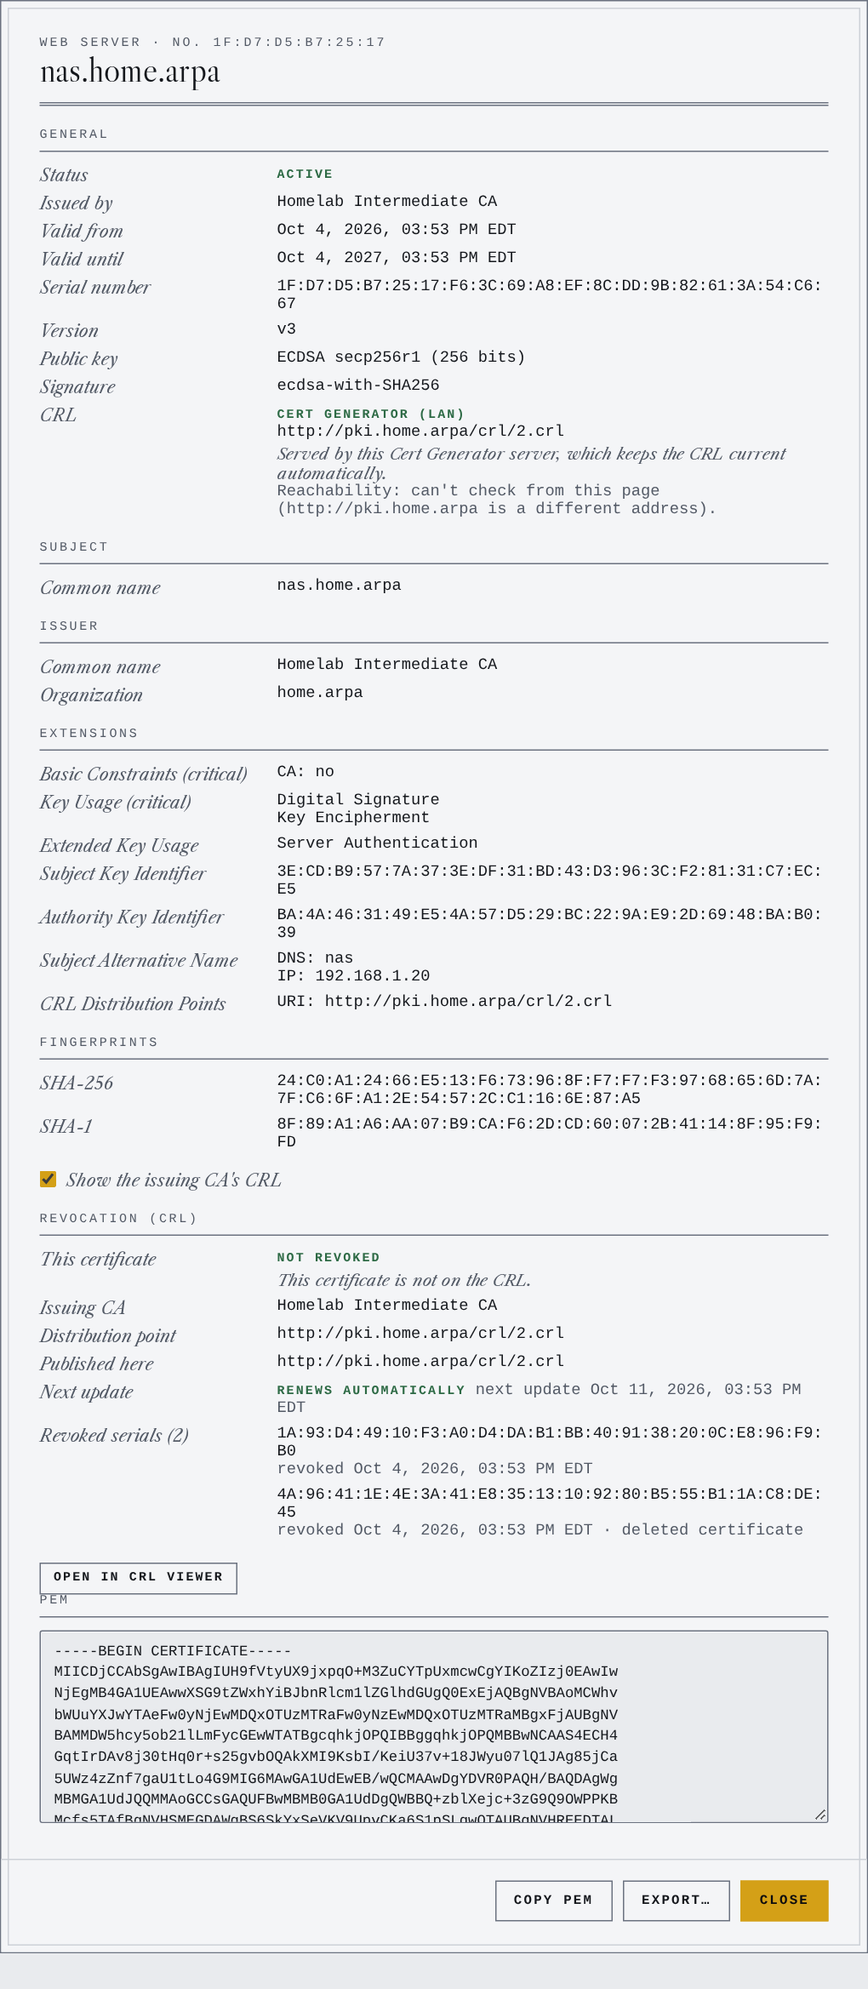
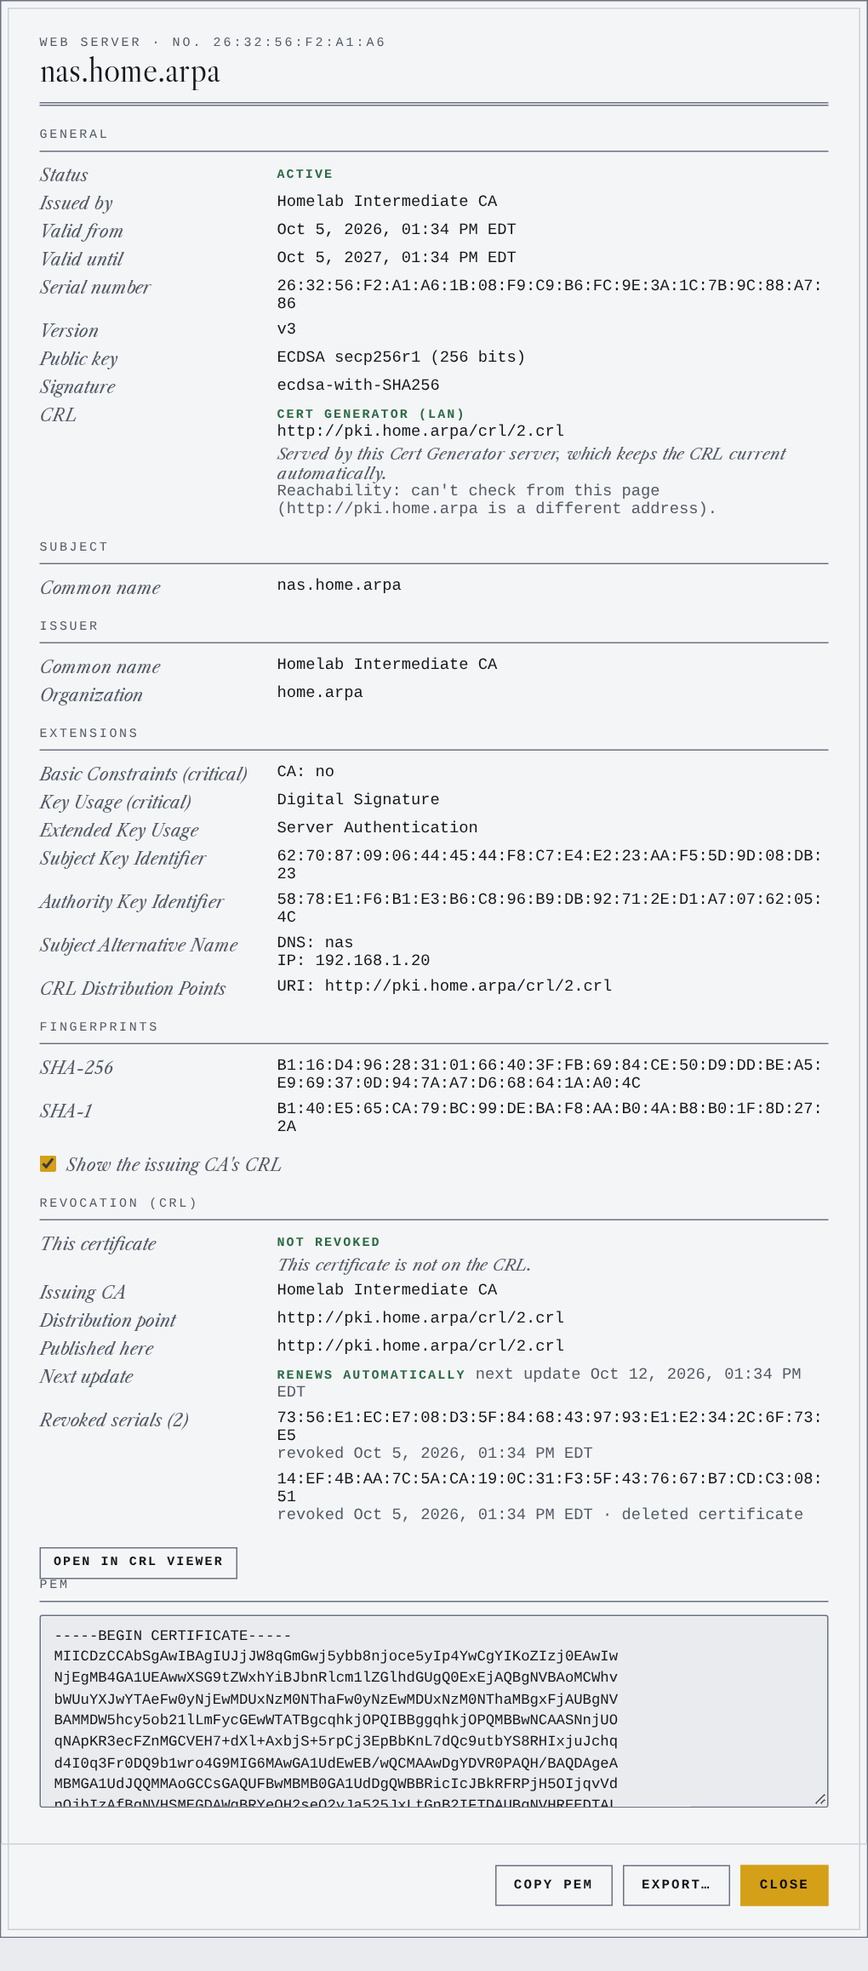
release: v2.9.0-dev.3 (bind as its own step, shared-PC user certs, Pal seal)
Third pre-release of 2.9, from the second day on a real Windows PC.

- Version 2.9.0-dev.3 in app/__init__.py, pyproject.toml, docker-compose.yml
  and the README; changelog entry (Docker and Internal, no Windows EXE).
- Issue Certificate says, for Web Server and Computer certificates, that
  issuing only creates the certificate; Export / install for Windows ends
  with a step pointing to the Pal's Bind… on that PC.
- The approval banner counts binds as well as certificate requests.
- The Bind dialog's constructor is split into smaller methods.
- README: a certificate issued in the web UI can be bound in the Pal.
  Screenshots retaken for the five screens that changed.

None of the Pal changes in 2.9.0-dev.3 have run on Windows.

Claude-Session: https://claude.ai/code/session_01V44nicpZ2LJnGLHuJPgARJ

diff --git a/app/static/app.js b/app/static/app.js
@@ -495,6 +495,8 @@ async function createIntermediate() {
 function onTemplateChange() {
   const tmpl = document.getElementById('certTemplate').value;
   document.getElementById('templateDesc').textContent = TEMPLATE_DESCS[tmpl] || '';
+  // A server certificate still has to be bound on the machine that uses it; the others are picked up from the store.
+  document.getElementById('templateBindNote').classList.toggle('hidden', !MACHINE_TEMPLATES.has(tmpl));
   const showEmail = tmpl === 'email' || tmpl === 'user';
   document.getElementById('emailRow').style.display = showEmail ? '' : 'none';
   if (!showEmail) document.getElementById('certEmail').value = '';
@@ -1102,6 +1104,10 @@ function importWindows(cert, root, intermediates, files, withTrust) {
     steps,
     hint: 'Export ' + (withTrust ? 'each CA as DER (Certificate Only) and ' : '') + 'this certificate as PKCS12 (.pfx)' +
       (cert.template === 'code-signing' ? ' and DER (Certificate Only)' : '') + ' first.',
+    // Installing puts it in the store; a service only uses it once it is bound.
+    after: machine ? 'Installed is not yet in use. To serve Remote Desktop, WinRM, an IIS site or a Remote Desktop Services role with it, ' +
+      'open Cert Generator Pal on that PC and choose Bind… on this certificate (the PC must be paired with this CA), ' +
+      'or set it in the service\'s own settings. Wi-Fi, VPN and 802.1X pick it up from the store with no further step.' : '',
   };
 }
 
@@ -1238,6 +1244,7 @@ function renderImportHelp() {
   const stepsEl = document.getElementById('importPopSteps');
   const blocks = answered ? [importBundleBlock(cert, help), importFilesBlock(help.files, cert)] : [];
   if (help.steps.length) blocks.push(importCommandsBlock(help.steps));
+  if (answered && help.after) blocks.push(importAfterBlock(help.after));
   stepsEl.replaceChildren(...blocks);
   importState.steps = help.steps;
   positionImportHelp();
@@ -1246,6 +1253,24 @@ function renderImportHelp() {
 // Every step in one block, each headed by a comment, with a Copy code button on it.
 function importCommandsText(steps) {
   return steps.map((s, i) => '# ' + (i + 1) + '. ' + s.label + '\n' + s.code).join('\n\n') + '\n';
+}
+
+// What still has to happen after the install, with where the README explains it.
+function importAfterBlock(text) {
+  const wrap = document.createElement('div');
+  const label = document.createElement('div');
+  label.className = 'step';
+  label.textContent = 'Then · put it to work';
+  const note = document.createElement('p');
+  note.className = 'import-admin';
+  note.textContent = text + ' ';
+  const link = document.createElement('a');
+  link.href = 'https://github.com/darthrater78/cert-generator#binding-a-certificate';
+  link.dataset.action = 'openExternalLink';
+  link.textContent = 'What binding does ↗';
+  note.append(link);
+  wrap.append(label, note);
+  return wrap;
 }
 
 function importCommandsBlock(steps) {
@@ -3035,10 +3060,10 @@ function showPalPendingCount(count) {
   badge.classList.toggle('hidden', count === 0);
   document.getElementById('palPendingBanner').classList.toggle('hidden', count === 0);
   document.getElementById('palPendingBannerText').textContent = count === 1
-    ? 'A Windows PC is waiting for your approval of a certificate request.'
-    : count + ' certificate requests from Windows PCs are waiting for your approval.';
+    ? 'A Windows PC is waiting for your approval of a request.'
+    : count + ' requests from Windows PCs are waiting for your approval.';
   if (palPendingSeen !== null && count > palPendingSeen) {
-    toast((count - palPendingSeen === 1 ? 'New certificate request' : (count - palPendingSeen) + ' new certificate requests') +
+    toast((count - palPendingSeen === 1 ? 'New request' : (count - palPendingSeen) + ' new requests') +
       ' waiting for your approval');
   }
   palPendingSeen = count;

diff --git a/app/templates/index.html b/app/templates/index.html
@@ -533,6 +533,7 @@
           <option value="email">Email (S/MIME)</option>
         </select>
         <div id="templateDesc" style="font-size:11px;color:var(--text-dim);margin-top:2px">Server Authentication</div>
+        <p class="form-hint" id="templateBindNote">Issuing only creates the certificate. Nothing uses it until the service is told to: on a Windows PC with Cert Generator Pal, install it and choose Bind… there; anywhere else, point the service's own settings at it.</p>
       </div>
     </div>
     <div class="form-row full">

diff --git a/pal/src/CertGeneratorPal/BindDialog.cs b/pal/src/CertGeneratorPal/BindDialog.cs
@@ -25,6 +25,11 @@ internal sealed class BindDialog : Form
     private readonly ComboBox _host = new() { Width = 200, DropDownStyle = ComboBoxStyle.DropDownList };
     private readonly TextBox _note = new() { Width = TextWidth, MaxLength = 200 };
     private readonly List<string> _names;
+    private readonly Policy _policy;
+    private readonly string _fqdn;
+    private readonly BindTargets _fits;
+    private readonly HashSet<string> _inUse;
+    private readonly IReadOnlyCollection<string> _waiting;
 
     /// <summary>The roles ticked, to ask the server for and then bind.</summary>
     public BindRequest Request => new()
@@ -48,8 +53,11 @@ internal sealed class BindDialog : Form
     public BindDialog(AuditItem item, Policy policy, string fqdn, IReadOnlyCollection<string> waiting)
     {
         _names = Binder.DnsNames(item.Cert);
-        var fits = BindingRules.TargetsFor(_names, fqdn);
-        var inUse = item.UsedBy.Select(Binder.TargetOf).OfType<string>().ToHashSet();
+        _policy = policy;
+        _fqdn = fqdn;
+        _waiting = waiting;
+        _fits = BindingRules.TargetsFor(_names, fqdn);
+        _inUse = item.UsedBy.Select(Binder.TargetOf).OfType<string>().ToHashSet();
 
         SuspendLayout();
         AutoScaleDimensions = new SizeF(96F, 96F);
@@ -104,68 +112,88 @@ internal sealed class BindDialog : Form
         Theme.Apply(this);
         ResumeLayout(false);
         PerformLayout();
+    }
 
-        // One role's rows: its tick boxes, where it stands, what binding it does, and Remove when it is in use.
-        void AddRole(TableLayoutPanel to, string key, CheckBox[] boxes, string? notHere, string what, string? removeEffect, Control? extra = null)
+    /// <summary>Why a role can't be bound right now, with the short word for its chip; null when it can.</summary>
+    private (string Why, string Chip)? Blocked(string key, string? notHere)
+    {
+        if (notHere is not null)
         {
-            string mode = policy.BindMode(key);
-            bool nameFits = fits.HasFlag(BindingRules.Flag(key));
-            bool isWaiting = waiting.Contains(key);
-            bool used = inUse.Contains(key);
-            string? blocked = notHere
-                ?? (mode == "off" ? "Your admin hasn't allowed this for this PC." : null)
-                ?? (!nameFits ? $"This answers to the PC's own name ({fqdn}), which this certificate doesn't carry." : null)
-                ?? (isWaiting ? "Already waiting for your admin. Choose Check again in the main window once they have approved it." : null);
-
-            var head = new FlowLayoutPanel { AutoSize = true, WrapContents = false, Margin = new Padding(0, 6, 0, 0) };
-            foreach (var box in boxes)
-            {
-                box.Enabled = blocked is null;
-                box.Margin = new Padding(3, 3, 8, 0);
-            }
-            head.Controls.Add(boxes[0]);
-            if (used)
-            {
-                head.Controls.Add(Chip("In use", Theme.Success));
-            }
-            if (blocked is null && mode == "approve")
-            {
-                head.Controls.Add(Chip("Needs approval", Theme.Warning));
-            }
-            else if (blocked is not null)
-            {
-                head.Controls.Add(Chip(notHere is not null ? "Not on this PC" : mode == "off" ? "Not allowed" : isWaiting ? "Waiting" : "Name doesn't fit", Theme.TextDim));
-            }
-            to.Controls.Add(head);
-            foreach (var more in boxes.Skip(1))
-            {
-                to.Controls.Add(more);
-            }
-            to.Controls.Add(Hint(blocked ?? (used ? "This certificate serves it now. " : "") + what
-                + (blocked is null && mode == "approve" ? " Your admin approves this one before it happens." : "")));
-            if (extra is not null && blocked is null)
-            {
-                to.Controls.Add(extra);
-            }
-            if (used && removeEffect is not null)
-            {
-                var remove = new Button { Text = "Remove this bind", AutoSize = true, Tag = Theme.ButtonKind.Danger, Margin = new Padding(21, 2, 0, 4) };
-                remove.Click += (_, _) =>
-                {
-                    if (MessageBox.Show(this, $"Stop {BindKeys.Label(key)} using this certificate?\n\n{removeEffect}", Text,
-                            MessageBoxButtons.OKCancel, MessageBoxIcon.Warning, MessageBoxDefaultButton.Button2) == DialogResult.OK)
-                    {
-                        RemoveTarget = key;
-                        DialogResult = DialogResult.OK;
-                    }
-                };
-                to.Controls.Add(remove);
-            }
-            else if (used)
-            {
-                to.Controls.Add(Hint("It can't run without a certificate: to change it, bind another certificate to it."));
-            }
+            return (notHere, "Not on this PC");
         }
+        if (_policy.BindMode(key) == "off")
+        {
+            return ("Your admin hasn't allowed this for this PC.", "Not allowed");
+        }
+        if (!_fits.HasFlag(BindingRules.Flag(key)))
+        {
+            return ($"This answers to the PC's own name ({_fqdn}), which this certificate doesn't carry.", "Name doesn't fit");
+        }
+        if (_waiting.Contains(key))
+        {
+            return ("Already waiting for your admin. Choose Check again in the main window once they have approved it.", "Waiting");
+        }
+        return null;
+    }
+
+    /// <summary>One role's rows: its tick boxes, where it stands, what binding it does, and Remove when it is in use.</summary>
+    private void AddRole(TableLayoutPanel to, string key, CheckBox[] boxes, string? notHere, string what, string? removeEffect, Control? extra = null)
+    {
+        var blocked = Blocked(key, notHere);
+        bool needsApproval = blocked is null && _policy.BindMode(key) == "approve";
+        bool used = _inUse.Contains(key);
+
+        var head = new FlowLayoutPanel { AutoSize = true, WrapContents = false, Margin = new Padding(0, 6, 0, 0) };
+        foreach (var box in boxes)
+        {
+            box.Enabled = blocked is null;
+            box.Margin = new Padding(3, 3, 8, 0);
+        }
+        head.Controls.Add(boxes[0]);
+        if (used)
+        {
+            head.Controls.Add(Chip("In use", Theme.Success));
+        }
+        if (needsApproval)
+        {
+            head.Controls.Add(Chip("Needs approval", Theme.Warning));
+        }
+        else if (blocked is { } b)
+        {
+            head.Controls.Add(Chip(b.Chip, Theme.TextDim));
+        }
+        to.Controls.Add(head);
+        foreach (var more in boxes.Skip(1))
+        {
+            to.Controls.Add(more);
+        }
+        to.Controls.Add(Hint(blocked?.Why ?? (used ? "This certificate serves it now. " : "") + what
+            + (needsApproval ? " Your admin approves this one before it happens." : "")));
+        if (extra is not null && blocked is null)
+        {
+            to.Controls.Add(extra);
+        }
+        if (used)
+        {
+            to.Controls.Add(removeEffect is null
+                ? Hint("It can't run without a certificate: to change it, bind another certificate to it.")
+                : RemoveButton(key, removeEffect));
+        }
+    }
+
+    private Button RemoveButton(string key, string effect)
+    {
+        var remove = new Button { Text = "Remove this bind", AutoSize = true, Tag = Theme.ButtonKind.Danger, Margin = new Padding(21, 2, 0, 4) };
+        remove.Click += (_, _) =>
+        {
+            if (MessageBox.Show(this, $"Stop {BindKeys.Label(key)} using this certificate?\n\n{effect}", Text,
+                    MessageBoxButtons.OKCancel, MessageBoxIcon.Warning, MessageBoxDefaultButton.Button2) == DialogResult.OK)
+            {
+                RemoveTarget = key;
+                DialogResult = DialogResult.OK;
+            }
+        };
+        return remove;
     }
 
     private FlowLayoutPanel IisRows()

diff --git a/tests/e2e/test_ui.py b/tests/e2e/test_ui.py
@@ -411,6 +411,13 @@ def test_import_help_lists_commands_per_os(signed_in: Page):
     page = signed_in
     _create_ca(page, "import.test")
     page.click("[data-action=showIssueCert]")
+    # A server certificate still has to be bound where it is used; the dialog says so for those kinds only.
+    bind_note = page.locator("#templateBindNote")
+    expect(bind_note).to_contain_text("Issuing only creates the certificate")
+    page.select_option("#certTemplate", "user")
+    expect(bind_note).to_be_hidden()
+    page.select_option("#certTemplate", "web-server")
+    expect(bind_note).to_be_visible()
     page.fill("#certCN", "host.import.test")
     page.click("[data-action=issueCert]")
     _toast(page, "issued")
@@ -433,6 +440,10 @@ def test_import_help_lists_commands_per_os(signed_in: Page):
     expect(steps).to_contain_text("Cert:\\LocalMachine\\My")
     expect(steps).not_to_contain_text("Cert:\\LocalMachine\\Root")
     expect(page.locator("#importPopCopy")).to_be_enabled()
+    # Installed is not in use: the last step points to Bind… and the README's explanation.
+    expect(steps).to_contain_text("choose Bind… on this certificate")
+    expect(steps.locator("a", has_text="What binding does")).to_have_attribute(
+        "href", "https://github.com/darthrater78/cert-generator#binding-a-certificate")
     # A web server certificate goes to the Local Machine store: PowerShell must run elevated.
     expect(page.locator("#importPopAdmin")).to_contain_text("Run PowerShell as Administrator")
     page.click("#importPop [data-action=setImportTrusted][data-arg=no]")

diff --git a/app/__init__.py b/app/__init__.py
@@ -1,1 +1,1 @@
-__version__ = "2.9.0-dev.2"
+__version__ = "2.9.0-dev.3"

diff --git a/CHANGELOG.md b/CHANGELOG.md
@@ -6,6 +6,33 @@ What changed in each release of Cert Generator and Cert Generator Pal. The [READ
 
 Each entry lists its changes per deliverable: a `#### Docker` section means the image is published for that version, a `#### Windows EXE` section means the EXE is built and attached, and anything under another heading (such as `#### Internal`) is carried into the notes as-is. Entries before v2.1.0 predate the split and shipped both.
 
+### v2.9.0-dev.3 — 2026-10-05
+
+Third pre-release of 2.9: **binding is its own step, with your approval per role**, user certificates behave on **shared PCs**, requests say **who asked**, and the Pal's window is tidied. Not for production: none of the Pal's new screens have run on a real Windows PC yet.
+
+#### Docker
+- **Binding is separate from requesting.** A request only gets the certificate. **Bind…** on a certificate in the computer's store opens one dialog with a row per role: Remote Desktop, WinRM over HTTPS, an IIS site, RD Gateway and the RD Connection Broker. After a new machine certificate is installed the Pal says what it already does (a This computer certificate works at once for Wi-Fi, VPN, 802.1X and device identity such as posture checks), lists what needs a bind, and offers the dialog
+- **You decide what a PC may bind.** **Add a PC** and **Edit** have a switch per role: **Off**, **Allow** or **Needs my approval**. The Pal asks the server before every bind. One that needs approval waits on the **Windows PCs** page beside certificate requests and is applied by the Pal's **Check again**. PCs paired earlier allow every role, as before
+- **Changed:** a role is offered when the certificate's names fit it, whichever kind it is. Remote Desktop and WinRM need a certificate that carries the PC's own name; this replaces 2.9.0-dev.1's rule that Remote Desktop is only for This computer certificates
+- **Changed:** a **Web server** request for nothing but the PC's own name, on a PC that already holds a **This computer** certificate, is refused and offers Bind… on that certificate. Ask for a Web server certificate when you need other names
+- **A bind can be removed** for Remote Desktop (Windows goes back to its self-signed certificate), WinRM (the HTTPS listener is removed) and an IIS site (its https binding is removed). RD Gateway and the broker roles can only be given another certificate
+- **Certificates issued on this page are bound the same way.** **Issue Certificate** now says, for Web Server and Computer certificates, that issuing only creates the certificate, and **Export / install** for Windows ends with a step pointing to the Pal's **Bind…** on that PC (or the service's own settings). A certificate installed in the computer's store with its key can be bound in the Pal like one the Pal requested
+- **What uses each certificate** shows in the Pal's Notes column, now including RD Gateway and the broker roles and binds still waiting for approval, and on the server on the PC's card and the certificate's row
+- **Shared PCs:** a **Me** or code-signing certificate lives in one person's own store, so only the Windows account that asked for it can report it missing. Someone else signing in and checking no longer frees its name or gets it revoked when a new one is issued
+- **Who asked:** each request and bind carries the Windows account the Pal ran as (reported by the Pal, not attested) and an optional one-line **note for the admin**. Both show in the waiting list; the account stays on the issued certificate and in the activity log
+- **Remove and Revoke in the Pal:** **Remove** takes a certificate off the PC and has the server revoke it in the same step when this PC was issued it; **Revoke** revokes and leaves it installed. With the server unreachable the revocation is kept on the PC and sent at the next check-in. When the server revokes a certificate, the Pal shows a notice; when one disappears from a PC another way, the server marks it **no longer on the PC, not revoked** and never revokes on absence alone
+- **Pal (served by this image) — window:** a seal in the upper right carries your CA's name and the PC's domain; the certificate list sorts by any column, always fits its width instead of scrolling sideways, and is given room at the default window size (it could shrink to a sliver); **Help** and **Troubleshooting** links in the footer
+- **Changed:** the **Me** tile no longer mentions smart card sign-in. The certificate is for client authentication (Wi-Fi, VPN, websites); signing in to Windows with it is not supported
+- **Fix:** key usage follows the key. An ECDSA or Ed25519 certificate no longer carries Key Encipherment, which only an RSA key can do. This applies to certificates issued in the web UI as well as to the Pal's
+- **Fix:** a Me certificate's sign-in name (UPN) is no longer also written as an e-mail address; an e-mail address goes in only when the request sends one
+- **Fix:** the Pal flagged a Web server and a This computer certificate with the same name as an **Older copy**; it now takes the same name and the same purposes
+- **Fix:** when the administrator step is answered with a different account's password, the Pal says so instead of "ended without a result"
+
+#### Internal
+- `binds` in a PC's policy; `POST /api/pal/v1/binds`, `GET /api/pal/v1/binds/<id>`, `POST /api/pal/v1/revoke`; `GET /api/pal/binds` with `…/approve` and `…/deny`; `windows_user` and `note` on `requests`; `windows_user` and `binds` on `status`
+- New table `pal_binds`; new columns `pal_requests.windows_user`, `pal_requests.note`, `certificates.pal_user`, `certificates.pal_binds`
+- The Pal keeps waiting binds in `pending-binds.json` and the RD Gateway and broker binds it made in `binds.json`, both in its machine folder
+
 ### v2.9.0-dev.2 — 2026-10-05
 
 Second pre-release of 2.9, from the first run on a real Windows PC: **edit what a connected PC may request**, an **activity log**, **timestamps** on certificates, and the Pal shows **where its keys live**. Not for production.

diff --git a/README.md b/README.md
@@ -5,7 +5,7 @@
 
 **Your own certificate authority for the lab, the office and security demos.** Create root and intermediate CAs, issue certificates that match Windows CA templates, revoke them with a CRL clients can actually reach, and get every certificate onto the machine that needs it. Runs as a **Docker web app**. The standalone **Windows desktop app** is in [maintenance only](#standalone-exe-windows-desktop): no new features after v2.8.0.
 
-[GitHub](https://github.com/darthrater78/cert-generator) · [v2.9.0-dev.2 release notes](https://github.com/darthrater78/cert-generator/releases/tag/v2.9.0-dev.2) · [What's new](CHANGELOG.md) · [Quick start](#quick-start) · [Cert Generator Pal](#cert-generator-pal-windows-pcs)
+[GitHub](https://github.com/darthrater78/cert-generator) · [v2.9.0-dev.3 release notes](https://github.com/darthrater78/cert-generator/releases/tag/v2.9.0-dev.3) · [What's new](CHANGELOG.md) · [Quick start](#quick-start) · [Cert Generator Pal](#cert-generator-pal-windows-pcs)
 
 ## New in 2.8: Cert Generator Pal
 
@@ -157,7 +157,7 @@ sudo mkdir -p /opt/docker/cert-generator && sudo chown 1000:1000 /opt/docker/cer
 ```yaml
 services:
   cert-generator:
-    image: ghcr.io/darthrater78/cert-generator:2.9.0-dev.2
+    image: ghcr.io/darthrater78/cert-generator:2.9.0-dev.3
     container_name: cert-generator
     restart: unless-stopped
     security_opt:
@@ -300,6 +300,7 @@ In the Pal, **Bind…** on a certificate in the computer's store opens one dialo
 - **A role is offered when the certificate fits it**, whichever kind it is. Roles the PC doesn't run, roles you turned off, and roles whose name the certificate doesn't carry are shown greyed out with the reason.
 - **The Notes column lists every bind**, and the same list shows on the PC's card and the certificate's row on the server. Removing a bind needs no approval.
 - **Renewal** moves everything bound to the old certificate onto the new one first, including bindings made by hand.
+- **A certificate issued in the web UI can be bound too.** Install it in the computer's store with its key (the Windows bundle from **Export / install** does this) on a PC paired with the same CA, and it appears in the Pal's list with **Bind…**. Its key was made on the server, so it is not in the TPM, and the Pal can't renew it: at expiry you issue, install and bind a new one.
 - **The switches govern what the Pal does.** An administrator on the PC can still bind a certificate by hand in Windows; it then shows in Notes like any other.
 
 ### Using the Pal
